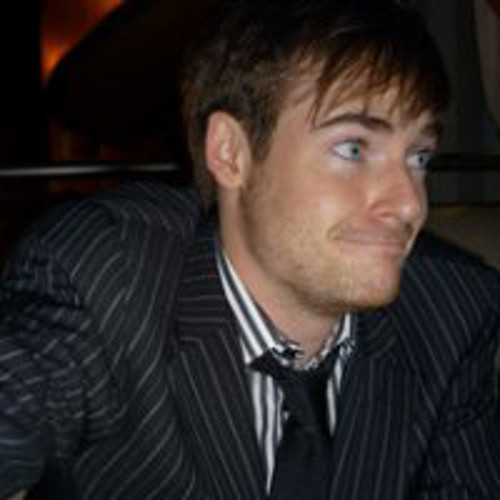
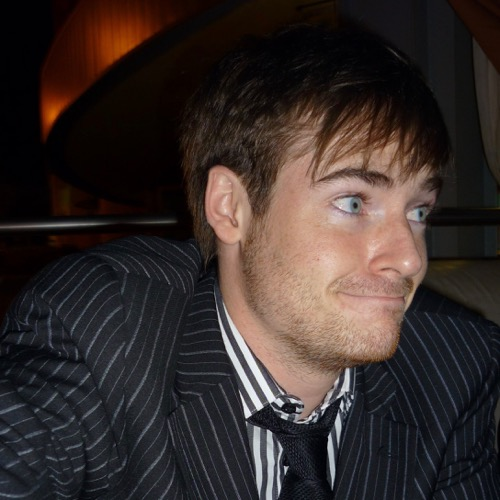
Index page proof read and higher resolution Kyle photo ;-)

diff --git a/index.html b/index.html
@@ -428,7 +428,7 @@
                                     <p>
                                         Wyobi provides resell access to our range of mobility, security, access and other products and solutions via an established channel.
                                         Resellers are at the heart of our solution strategy and their success is our success.
-                                        OpenItem Fleet, OpenItem Access and other OpenItem mobile worforce automation solutions are distributed and implemented via
+                                        OpenItem Fleet, OpenItem Access and other OpenItem mobile workforce automation solutions are distributed and implemented via
                                         this channel.
                                     </p>
                                 </div>
@@ -460,7 +460,7 @@
                                 <div class="about-box-text">
                                     <h4>Technology Enabler</h4>
                                     <p>
-                                        We focus on enabling your business through technology by developing re-usable frameworks and components that improves time to implementation and the fastest possible returns. Whether through our highly specialised resellers and network of implementers or technology providers or through our custom software for your business, we can deliver.
+                                        We focus on enabling your business through technology by developing re-usable frameworks and components that improve time to implementation and the fastest possible returns. Whether through our highly specialised resellers and network of implementers or technology providers or through our custom software for your business, we can deliver.
                                     </p>
                                 </div>
                             </div><!--about us box end-->
@@ -484,11 +484,11 @@
                             <div class="col-md-6 col-sm-6">
                                 <div class="about-more-info wow animated fadeInUp" data-wow-delay="0.3s">
                                     <p>
-                                        Not counting custom developed software, Wyobi white and gray-labeled products have over a thousand business users out on the road, at access control points, or in the office. And a ever growing number of home users are using our estate access control mobile apps.
+                                        Not counting custom developed software, Wyobi white and gray-labeled products have over a thousand business users out on the road, at access control points, or in the office. And an ever-growing number of home users are using our estate access control mobile apps.
                                     </p>
                                     <p>
-                                        We are capable of developing custom mobile, server, web and desktop software, native or multi-platform for all mobile platforms and technologies, including IOS (IPhone and IPad), Andriod Phones and Tablets, Black Berry 10, Windows Phone, Windows Mobile and more and desktop software for
-                                        Windows 7-10 as well as MacOSX.
+                                        We are capable of developing custom mobile, server, web and desktop software, native or multi-platform for all mobile platforms and technologies, including iOS (iPhone and iPad), Android Phones and Tablets, Blackberry 10, Windows Phone, Windows Mobile, desktop software for
+                                        Windows 7-10 as well as MacOSX and more.
                                     </p>
                                     <p>
                                         Enterprise grade web software for any line of business, using the Microsoft stack or MEAN.js stack for robust or big-data applications.
@@ -569,7 +569,7 @@
                     <div class="row">
                         <div class="col-md-12">
                             <div class="margin-btm-40">
-                                <h4>Multi Layered Technology Provider</h4>
+                                <h4>Multi-Layered Technology Provider</h4>
                                 <p>We focus on developing frameworks which we productize and monetize in different ways. We can enable your business through these assets or can assist you in building your own.</p>
                             </div>
                         </div>
@@ -585,7 +585,7 @@
                                 <div class="col-md-10">
                                     <div class="services-info">
                                         <h3>Consulting</h3>
-                                        <p> Need some expert, specialist and well-seasoned developers and architects to assist with your design, architecture, development, SDLC/DevOpps, platform or technology challenges.</p>
+                                        <p> Need some expert, specialist and well-seasoned developers and architects to assist with your design, architecture, development, SDLC/DevOpps, platform or technology challenges?</p>
                                     </div>
                                 </div>
                             </div><!--.services row end-->
@@ -598,8 +598,8 @@
                                 <div class="col-md-10">
                                     <div class="services-info">
                                         <h3>Custom Mobile & Desktop Apps</h3>
-                                        <p>Native and cross-platform Mobile and Desktop appllications for most devices and systems for
-                                        Apple IPhone, IPad, Watch, MacOSX and Microsoft Windows Mobile, Phone 8, Windows 7 and 8 and 
+                                        <p>Native and cross-platform Mobile and Desktop applications for most devices and systems:
+                                        Apple iPhone, iPad, Watch, Mac OS X and Microsoft Windows Mobile, Phone 8, Windows 7 and 8 and 
                                         Windows 10.</p>
                                     </div>
                                 </div>
@@ -615,7 +615,7 @@
                                         <h3>Custom Server, Web and Cloud</h3>
                                         <p>
                                             Enterprise grade web application development and reporting for
-                                            intranet, extranet or cloud hosted solutions using the Microsoft .NET
+                                            intranet, extranet or cloud-hosted solutions using the Microsoft .NET
                                             as well as Open Source MEAN.js stacks.
                                         </p>
                                     </div>
@@ -634,7 +634,7 @@
                                     <div class="services-info">
                                         <h3>OpenItem I</h3>
                                         <p>
-                                            OpenItem I is our well established, well supported, off-line first, cloud based and extremely stable Mobile Worforce Automation framework. It is the base of many of our solution offerings and we've succesfully configured and customized
+                                            OpenItem I is our well-established, well-supported, off-line first, cloud-based and extremely stable Mobile Workforce Automation framework. It is the basis of many of our solution offerings and we've successfully configured and customized
                                             the dynamic workflow to support many other business verticals including inspections in mining and vehicle inspection, fuel management, dispatch, security, quality and others.
                                         </p>
                                     </div>
@@ -650,7 +650,7 @@
                                     <div class="services-info">
                                         <h3>OpenItem PaaS</h3>
                                         <p>
-                                            Our latest, cloud based, lightning fast, big-data enabled, multi-device, PaaS (platform as a service) mobile workforce automation system that can easily be configured by anyone to build offline enabled, enterprise, Mobile Workforce Automation systems easily.
+                                            Our latest, cloud-based, lightning-fast, big-data enabled, multi-device, PaaS (Platform as a Service) mobile workforce automation system that can easily be configured by anyone to build offline-enabled, enterprise, Mobile Workforce Automation systems easily.
                                             It supports a very wide range of mobile devices to solve most mobility problems.
                                         </p>
                                     </div>
@@ -1103,11 +1103,11 @@
                                 <img src="img/profile_danie.jpg" width="300" height="300" class="img-responsive" alt="">
                                 <div class="person-desc">
                                     <h4>Danie Bruwer</h4>
-                                    <em>Co-Founder, OpenItem I, Access Control and Opperational</em>
+                                    <em>Co-Founder, OpenItem I, Access Control and Operational</em>
                                     <p>
                                         Danie champions our Access Control, Fleet and OpenItem I solutions and the related reporting,
                                         he is highly experienced in many platforms as well as looking after our current support team, he can't help but get involved in all
-                                        native IOS custom development projects. He also loves to solve everyones solution problems on a day by day basis.
+                                        native iOS custom development projects. He also loves to solve everyone's solution problems on a day-by-day basis.
                                     </p>
                                 </div>
                             </div>
@@ -1121,7 +1121,7 @@
                                     <p>
                                         Wouter makes sure everyting is executed perfectly, he always follows a detailed approach
                                         and crosses all the t's while dotting the i's. Not only does he 
-                                        ensure our business relationships are rock sollid, he also has many years of experience
+                                        ensure our business relationships are rock solid, he also has many years of experience
                                         and can code in most languages on most platforms.
                                     </p>
                                 </div>
@@ -1136,7 +1136,7 @@
                                     <p>
                                         Fanie pays attention to the big picture and tries to focus on what we will be doing in the future.
                                         He prototypes our future but still tries to get involved whenever there are hard problems to solve.
-                                        He can code in many languages and understands software paterns, solution design and product design well.
+                                        He can code in many languages and understands software patterns, solution design and product design well.
                                     </p>
                                 </div>
                             </div>
@@ -1152,7 +1152,7 @@
                                     <p>
                                         Conrad develops and supports most of our rugged-mobile software.
                                         He is one of the
-                                        most experienced Windows Mobile and Phone developers in the Country. While he probably may have started the Microsoft
+                                        most experienced Windows Mobile and Phone developers in the country. While he probably may have started the Microsoft
                                         marine movement, and is a .NET, CPP and assembler fundy, he is multi-skilled and translates his experience well to other platforms.
                                     </p>
                                 </div>
@@ -1165,9 +1165,9 @@
                                     <h4>Kyle Tee</h4>
                                     <em>Genius, Apple Whisperer, Androidian, Open Source</em>
                                     <p>
-                                        Kyle has a gift developing for MacOSX, IOS and Android as well as much much more. He understands
+                                        Kyle has a gift developing for Mac OS X, iOS and Android as well as much much more. He understands
                                         requirements instantly and provides solutions to the hardest problems on a ongoing basis.
-                                        Appart from Mac, IOS and Andriod he has stacks of experience with Open Source technologies from Cordova/Ionic to PHP and much more.
+                                        Appart from Mac, iOS and Android, he has stacks of experience with Open Source technologies from Cordova/Ionic to PHP and much more.
                                     </p>
                                 </div>
                             </div>
@@ -1303,7 +1303,7 @@
             <div class="container">
                 <div class="row">
                     <div class="col-md-6 col-sm-6 copyright">
-                        <span>&copy; - Wyobi&trade; 2016. &copy; - Bootstrap Template by Design_mylife. All right reserved</span>
+                        <span>&copy; - Wyobi&trade; 2016. &copy; - Bootstrap Template by Design_mylife. All rights reserved.</span>
                     </div>
                     <div class="col-md-6 col-sm-6 footer-nav">
                         <ul class="list-inline">
